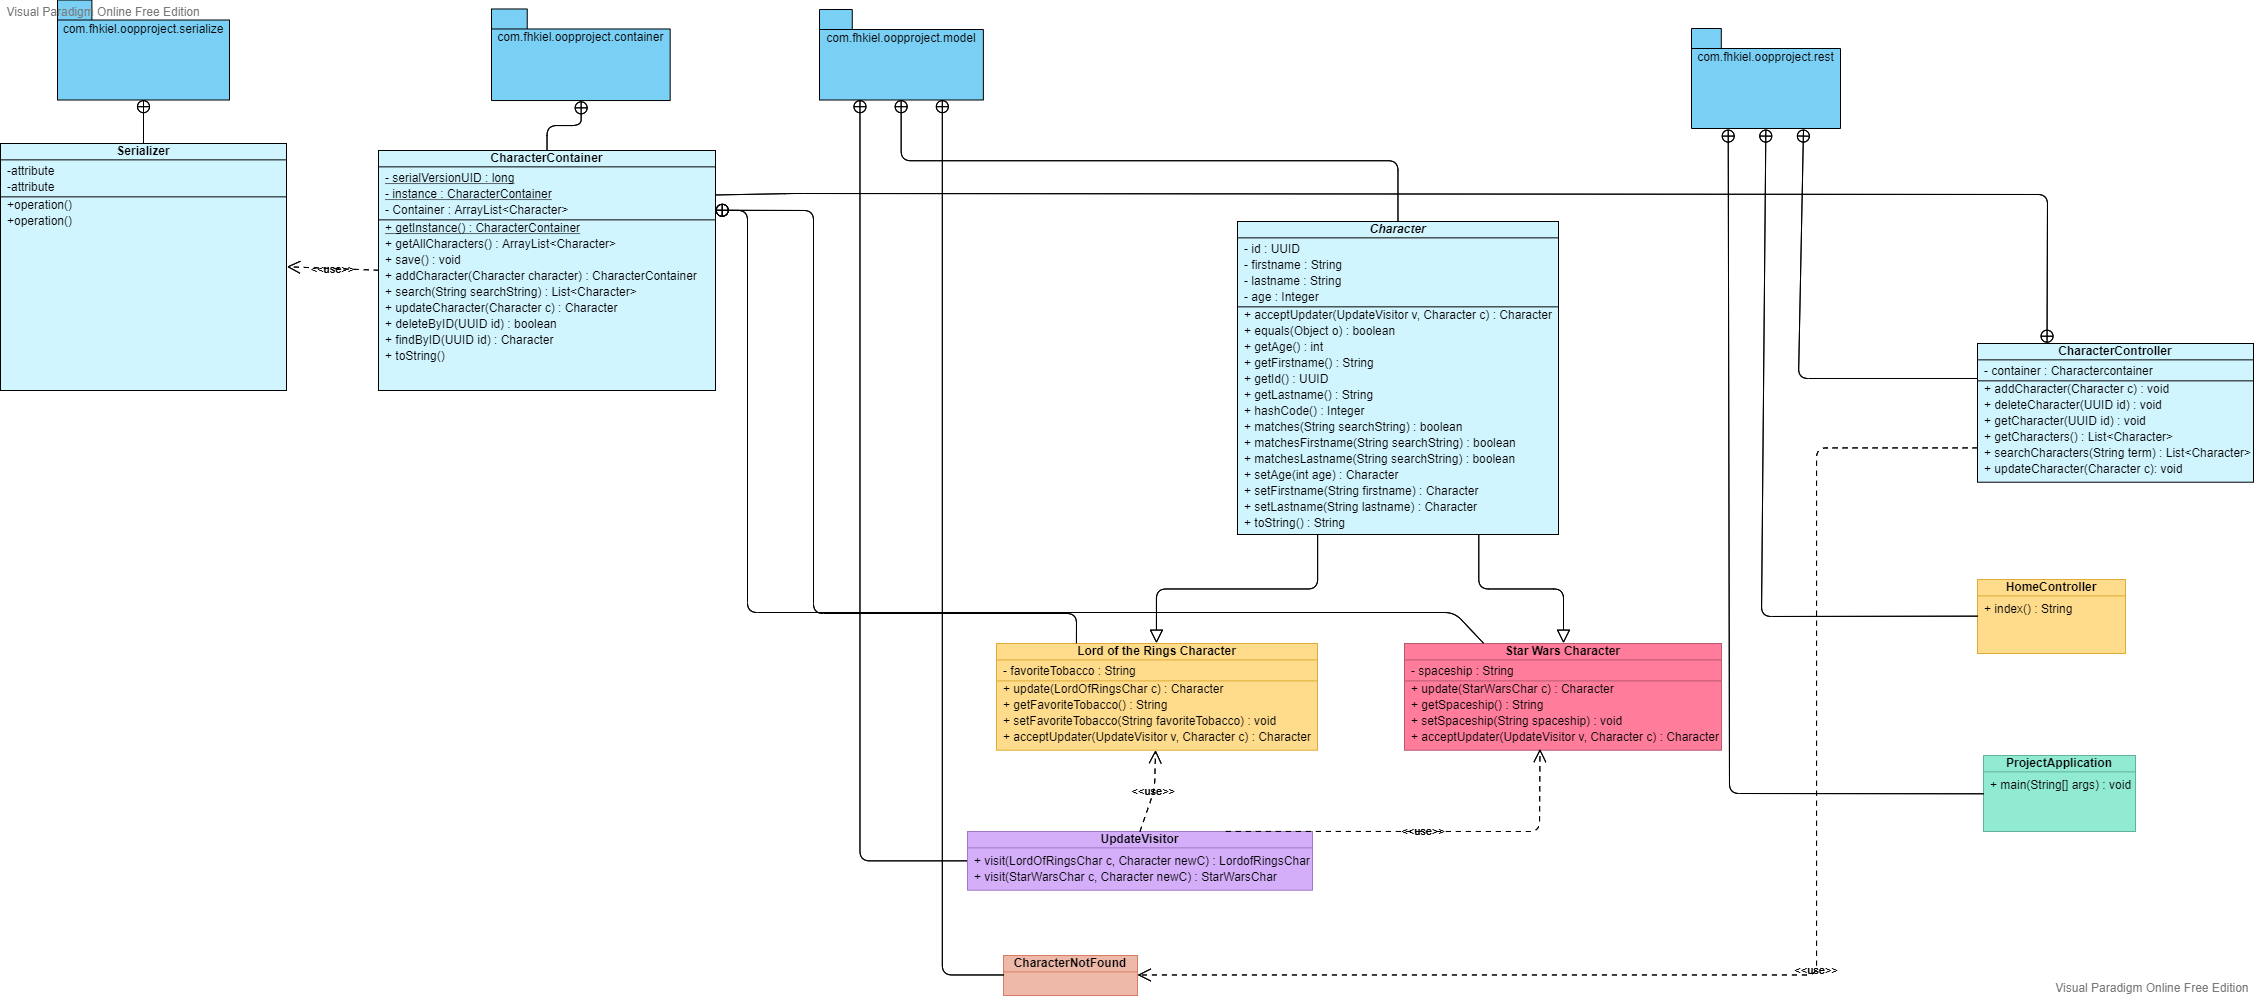
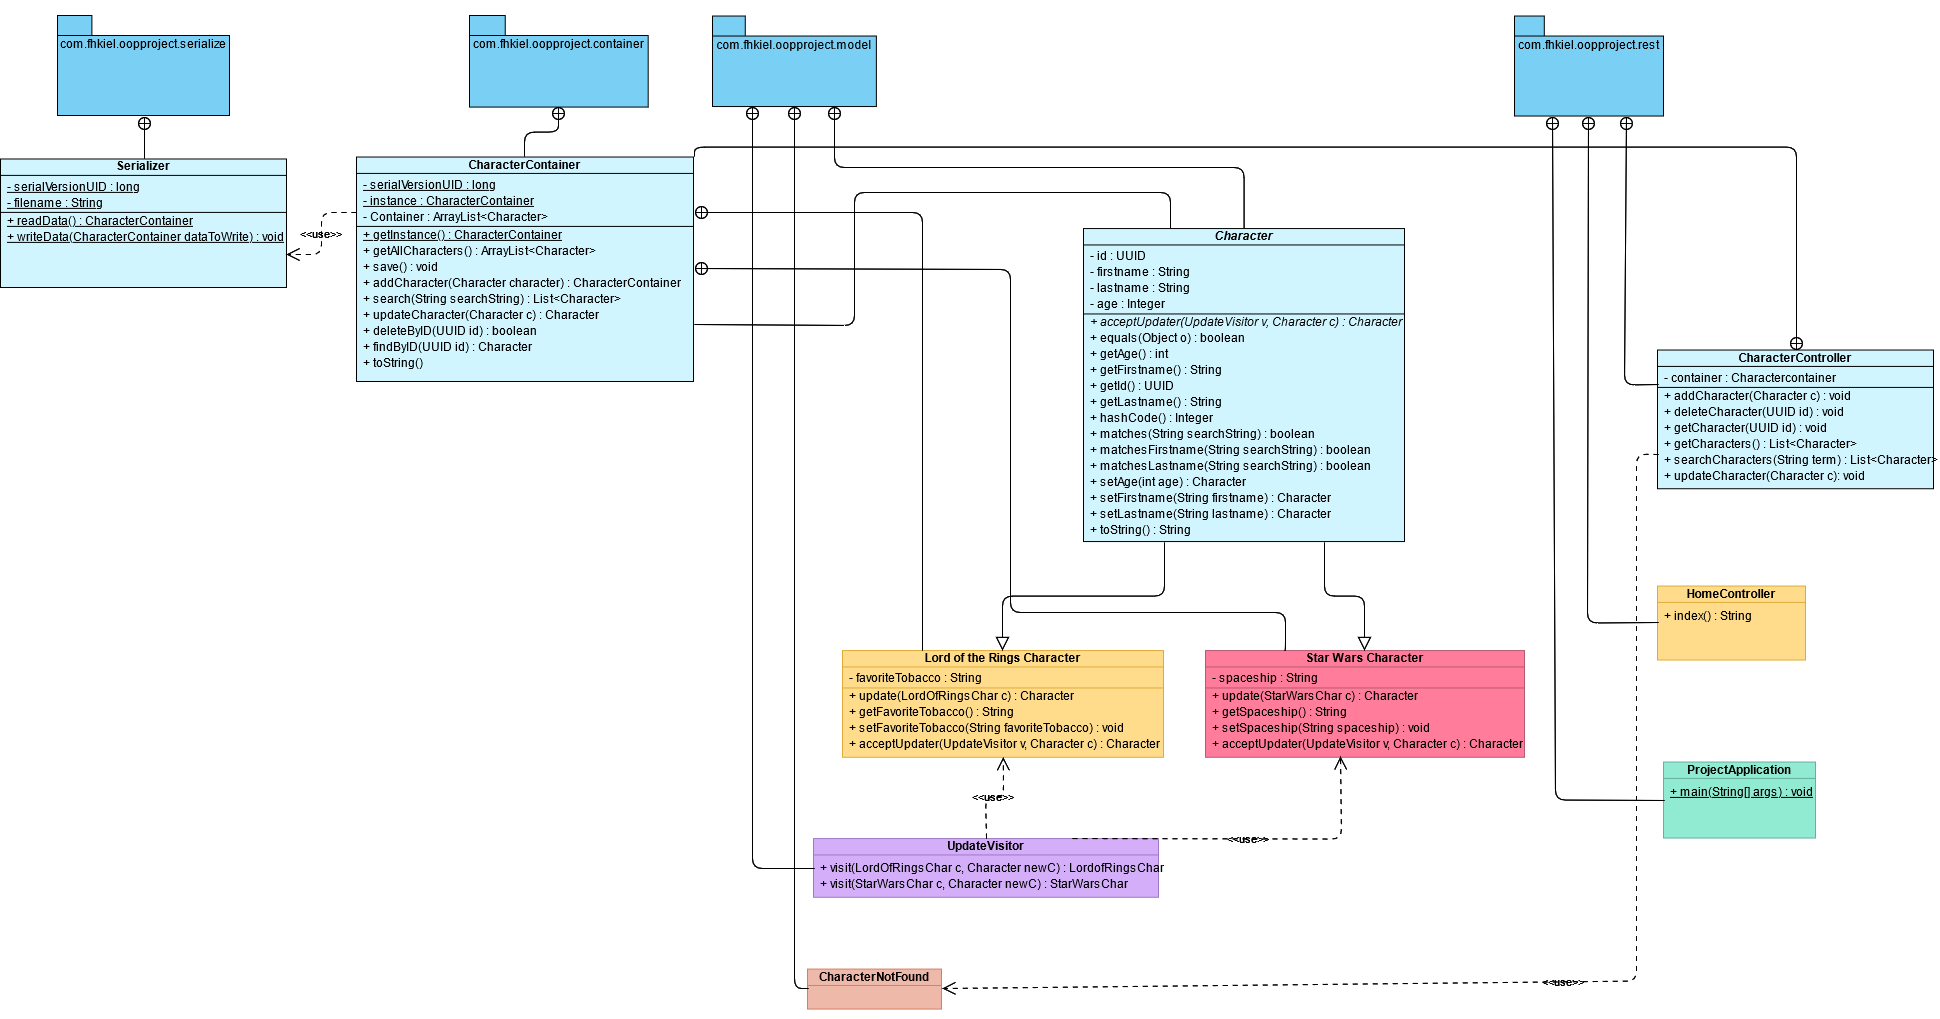
New UML, corrected some JavaDoc and deleted TODOS in Code. Also generated new JavaDoc.

diff --git a/doc/com/fhkiel/oopproject/rest/CharacterController.html b/doc/com/fhkiel/oopproject/rest/CharacterController.html
@@ -2,7 +2,7 @@
 <!-- NewPage -->
 <html lang="de">
 <head>
-<!-- Generated by javadoc (16) on Thu Jun 03 08:00:21 CEST 2021 -->
+<!-- Generated by javadoc (16) on Thu Jun 03 18:26:18 CEST 2021 -->
 <title>CharacterController</title>
 <meta name="viewport" content="width=device-width, initial-scale=1">
 <meta http-equiv="Content-Type" content="text/html; charset=utf-8">
@@ -124,8 +124,7 @@ loadScripts(document, 'script');</script>
 <div class="col-first even-row-color method-summary-table-tab2 method-summary-table-tab4 method-summary-table"><code><a href="../model/Character.html" title="class in com.fhkiel.oopproject.model">Character</a></code></div>
 <div class="col-second even-row-color method-summary-table-tab2 method-summary-table-tab4 method-summary-table"><code><span class="member-name-link"><a href="#getCharacter(java.util.UUID)">getCharacter</a></span>&#8203;(<a href="https://docs.oracle.com/en/java/javase/16/docs/api/java.base/java/util/UUID.html" title="class or interface in java.util" class="external-link">UUID</a>&nbsp;id)</code></div>
 <div class="col-last even-row-color method-summary-table-tab2 method-summary-table-tab4 method-summary-table">
-<div class="block">TODO: *here is something you might need to correct*c
- Gets a specific character by its <a href="https://docs.oracle.com/en/java/javase/16/docs/api/java.base/java/util/UUID.html" title="class or interface in java.util" class="external-link"><code>id</code></a> from the <a href="../container/CharacterContainer.html" title="class in com.fhkiel.oopproject.container"><code>CharacterContainer</code></a>.</div>
+<div class="block">Gets a specific character by its <code>id</code> from the <a href="../container/CharacterContainer.html" title="class in com.fhkiel.oopproject.container"><code>CharacterContainer</code></a>.</div>
 </div>
 <div class="col-first odd-row-color method-summary-table-tab2 method-summary-table-tab4 method-summary-table"><code><a href="https://docs.oracle.com/en/java/javase/16/docs/api/java.base/java/util/List.html" title="class or interface in java.util" class="external-link">List</a>&lt;<a href="../model/Character.html" title="class in com.fhkiel.oopproject.model">Character</a>&gt;</code></div>
 <div class="col-second odd-row-color method-summary-table-tab2 method-summary-table-tab4 method-summary-table"><code><span class="member-name-link"><a href="#getCharacters()">getCharacters</a></span>()</code></div>
@@ -223,8 +222,7 @@ loadScripts(document, 'script');</script>
 <div class="member-signature"><span class="annotations">@GetMapping("/character/{id}")
 </span><span class="modifiers">public</span>&nbsp;<span class="return-type"><a href="../model/Character.html" title="class in com.fhkiel.oopproject.model">Character</a></span>&nbsp;<span class="element-name">getCharacter</span>&#8203;<span class="parameters">(@PathVariable
  <a href="https://docs.oracle.com/en/java/javase/16/docs/api/java.base/java/util/UUID.html" title="class or interface in java.util" class="external-link">UUID</a>&nbsp;id)</span></div>
-<div class="block">TODO: *here is something you might need to correct*c
- Gets a specific character by its <a href="https://docs.oracle.com/en/java/javase/16/docs/api/java.base/java/util/UUID.html" title="class or interface in java.util" class="external-link"><code>id</code></a> from the <a href="../container/CharacterContainer.html" title="class in com.fhkiel.oopproject.container"><code>CharacterContainer</code></a>.</div>
+<div class="block">Gets a specific character by its <code>id</code> from the <a href="../container/CharacterContainer.html" title="class in com.fhkiel.oopproject.container"><code>CharacterContainer</code></a>.</div>
 <dl class="notes">
 <dt>Parameters:</dt>
 <dd><code>id</code> - id of wanted char Type: <a href="https://docs.oracle.com/en/java/javase/16/docs/api/java.base/java/util/UUID.html" title="class or interface in java.util" class="external-link"><code>UUID</code></a></dd>

diff --git a/doc/index-files/index-6.html b/doc/index-files/index-6.html
@@ -2,7 +2,7 @@
 <!-- NewPage -->
 <html lang="de">
 <head>
-<!-- Generated by javadoc (16) on Thu Jun 03 08:00:21 CEST 2021 -->
+<!-- Generated by javadoc (16) on Thu Jun 03 18:26:18 CEST 2021 -->
 <title>G-Index</title>
 <meta name="viewport" content="width=device-width, initial-scale=1">
 <meta http-equiv="Content-Type" content="text/html; charset=utf-8">
@@ -62,8 +62,7 @@ loadScripts(document, 'script');</script>
 <dd>&nbsp;</dd>
 <dt><span class="member-name-link"><a href="../com/fhkiel/oopproject/rest/CharacterController.html#getCharacter(java.util.UUID)">getCharacter(UUID)</a></span> - Method in class com.fhkiel.oopproject.rest.<a href="../com/fhkiel/oopproject/rest/CharacterController.html" title="class in com.fhkiel.oopproject.rest">CharacterController</a></dt>
 <dd>
-<div class="block">TODO: *here is something you might need to correct*c
- Gets a specific character by its <a href="https://docs.oracle.com/en/java/javase/16/docs/api/java.base/java/util/UUID.html" title="class or interface in java.util" class="external-link"><code>id</code></a> from the <a href="../com/fhkiel/oopproject/container/CharacterContainer.html" title="class in com.fhkiel.oopproject.container"><code>CharacterContainer</code></a>.</div>
+<div class="block">Gets a specific character by its <code>id</code> from the <a href="../com/fhkiel/oopproject/container/CharacterContainer.html" title="class in com.fhkiel.oopproject.container"><code>CharacterContainer</code></a>.</div>
 </dd>
 <dt><span class="member-name-link"><a href="../com/fhkiel/oopproject/rest/CharacterController.html#getCharacters()">getCharacters()</a></span> - Method in class com.fhkiel.oopproject.rest.<a href="../com/fhkiel/oopproject/rest/CharacterController.html" title="class in com.fhkiel.oopproject.rest">CharacterController</a></dt>
 <dd>

diff --git a/doc/com/fhkiel/oopproject/container/package-tree.html b/doc/com/fhkiel/oopproject/container/package-tree.html
@@ -2,7 +2,7 @@
 <!-- NewPage -->
 <html lang="de">
 <head>
-<!-- Generated by javadoc (16) on Thu Jun 03 08:00:21 CEST 2021 -->
+<!-- Generated by javadoc (16) on Thu Jun 03 18:26:18 CEST 2021 -->
 <title>com.fhkiel.oopproject.container Class Hierarchy</title>
 <meta name="viewport" content="width=device-width, initial-scale=1">
 <meta http-equiv="Content-Type" content="text/html; charset=utf-8">

diff --git a/doc/com/fhkiel/oopproject/serialize/package-tree.html b/doc/com/fhkiel/oopproject/serialize/package-tree.html
@@ -2,7 +2,7 @@
 <!-- NewPage -->
 <html lang="de">
 <head>
-<!-- Generated by javadoc (16) on Thu Jun 03 08:00:21 CEST 2021 -->
+<!-- Generated by javadoc (16) on Thu Jun 03 18:26:18 CEST 2021 -->
 <title>com.fhkiel.oopproject.serialize Class Hierarchy</title>
 <meta name="viewport" content="width=device-width, initial-scale=1">
 <meta http-equiv="Content-Type" content="text/html; charset=utf-8">

diff --git a/doc/com/fhkiel/oopproject/model/package-tree.html b/doc/com/fhkiel/oopproject/model/package-tree.html
@@ -2,7 +2,7 @@
 <!-- NewPage -->
 <html lang="de">
 <head>
-<!-- Generated by javadoc (16) on Thu Jun 03 08:00:21 CEST 2021 -->
+<!-- Generated by javadoc (16) on Thu Jun 03 18:26:18 CEST 2021 -->
 <title>com.fhkiel.oopproject.model Class Hierarchy</title>
 <meta name="viewport" content="width=device-width, initial-scale=1">
 <meta http-equiv="Content-Type" content="text/html; charset=utf-8">

diff --git a/doc/com/fhkiel/oopproject/rest/package-tree.html b/doc/com/fhkiel/oopproject/rest/package-tree.html
@@ -2,7 +2,7 @@
 <!-- NewPage -->
 <html lang="de">
 <head>
-<!-- Generated by javadoc (16) on Thu Jun 03 08:00:21 CEST 2021 -->
+<!-- Generated by javadoc (16) on Thu Jun 03 18:26:18 CEST 2021 -->
 <title>com.fhkiel.oopproject.rest Class Hierarchy</title>
 <meta name="viewport" content="width=device-width, initial-scale=1">
 <meta http-equiv="Content-Type" content="text/html; charset=utf-8">

diff --git a/doc/overview-summary.html b/doc/overview-summary.html
@@ -2,7 +2,7 @@
 <!-- NewPage -->
 <html lang="de">
 <head>
-<!-- Generated by javadoc (16) on Thu Jun 03 08:00:21 CEST 2021 -->
+<!-- Generated by javadoc (16) on Thu Jun 03 18:26:18 CEST 2021 -->
 <title>Generated Documentation (Untitled)</title>
 <meta name="viewport" content="width=device-width, initial-scale=1">
 <meta http-equiv="Content-Type" content="text/html; charset=utf-8">

diff --git a/doc/com/fhkiel/oopproject/container/package-summary.html b/doc/com/fhkiel/oopproject/container/package-summary.html
@@ -2,7 +2,7 @@
 <!-- NewPage -->
 <html lang="de">
 <head>
-<!-- Generated by javadoc (16) on Thu Jun 03 08:00:21 CEST 2021 -->
+<!-- Generated by javadoc (16) on Thu Jun 03 18:26:18 CEST 2021 -->
 <title>com.fhkiel.oopproject.container</title>
 <meta name="viewport" content="width=device-width, initial-scale=1">
 <meta http-equiv="Content-Type" content="text/html; charset=utf-8">

diff --git a/doc/com/fhkiel/oopproject/serialize/package-summary.html b/doc/com/fhkiel/oopproject/serialize/package-summary.html
@@ -2,7 +2,7 @@
 <!-- NewPage -->
 <html lang="de">
 <head>
-<!-- Generated by javadoc (16) on Thu Jun 03 08:00:21 CEST 2021 -->
+<!-- Generated by javadoc (16) on Thu Jun 03 18:26:18 CEST 2021 -->
 <title>com.fhkiel.oopproject.serialize</title>
 <meta name="viewport" content="width=device-width, initial-scale=1">
 <meta http-equiv="Content-Type" content="text/html; charset=utf-8">

diff --git a/doc/com/fhkiel/oopproject/model/package-summary.html b/doc/com/fhkiel/oopproject/model/package-summary.html
@@ -2,7 +2,7 @@
 <!-- NewPage -->
 <html lang="de">
 <head>
-<!-- Generated by javadoc (16) on Thu Jun 03 08:00:21 CEST 2021 -->
+<!-- Generated by javadoc (16) on Thu Jun 03 18:26:18 CEST 2021 -->
 <title>com.fhkiel.oopproject.model</title>
 <meta name="viewport" content="width=device-width, initial-scale=1">
 <meta http-equiv="Content-Type" content="text/html; charset=utf-8">

diff --git a/doc/com/fhkiel/oopproject/rest/package-summary.html b/doc/com/fhkiel/oopproject/rest/package-summary.html
@@ -2,7 +2,7 @@
 <!-- NewPage -->
 <html lang="de">
 <head>
-<!-- Generated by javadoc (16) on Thu Jun 03 08:00:21 CEST 2021 -->
+<!-- Generated by javadoc (16) on Thu Jun 03 18:26:18 CEST 2021 -->
 <title>com.fhkiel.oopproject.rest</title>
 <meta name="viewport" content="width=device-width, initial-scale=1">
 <meta http-equiv="Content-Type" content="text/html; charset=utf-8">

diff --git a/doc/com/fhkiel/oopproject/container/CharacterContainer.html b/doc/com/fhkiel/oopproject/container/CharacterContainer.html
@@ -2,7 +2,7 @@
 <!-- NewPage -->
 <html lang="de">
 <head>
-<!-- Generated by javadoc (16) on Thu Jun 03 08:00:21 CEST 2021 -->
+<!-- Generated by javadoc (16) on Thu Jun 03 18:26:18 CEST 2021 -->
 <title>CharacterContainer</title>
 <meta name="viewport" content="width=device-width, initial-scale=1">
 <meta http-equiv="Content-Type" content="text/html; charset=utf-8">
